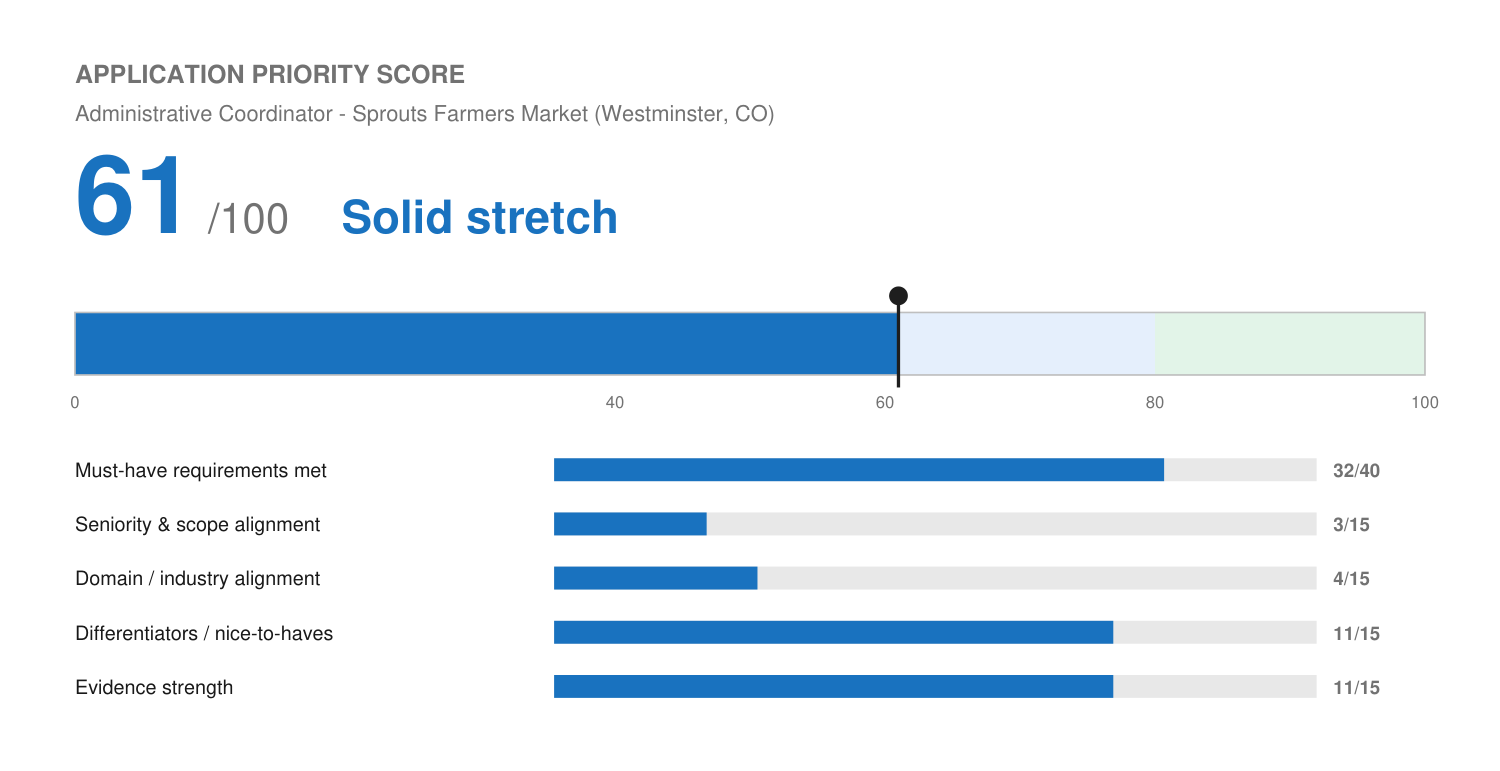
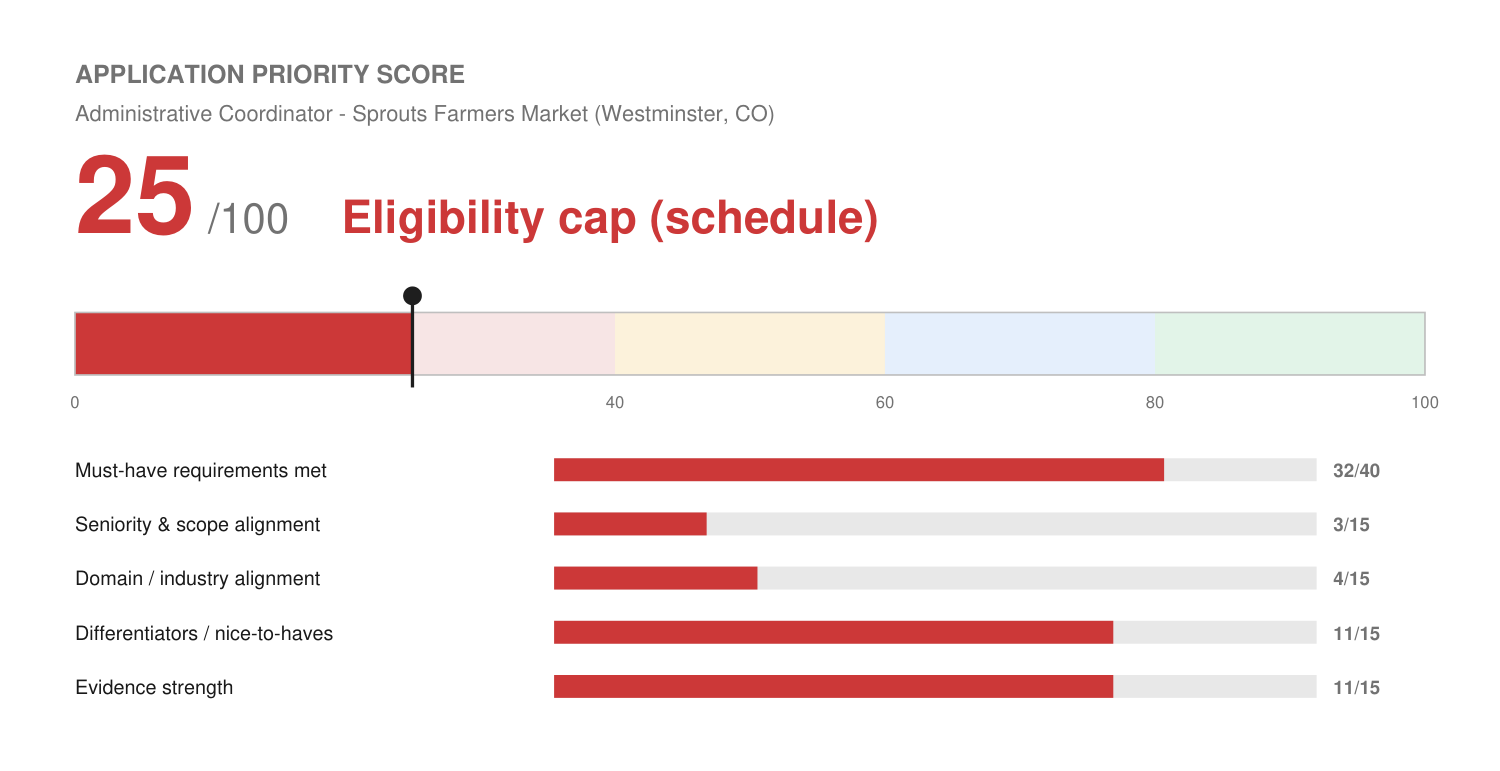
Sprouts: correct schedule constraint, mark application not pursuing
Josh confirmed nights and weekends don't work for him, correcting a wrong
Aug 2026 profile note that said they were acceptable. Sprouts' schedule
requirement is a hard, structural condition of the role, not a preference,
so this is a real eligibility failure, not a score problem.

- master-profile.md: corrected the standing constraint and folded it into
  the knockouts block so it's checked against every future posting.
- Sprouts match report: failed eligibility item flagged at top, cap applied
  (61 -> 25), status marked not pursuing.
- Interview prep doc: flagged not pursuing, kept as record.

Claude-Session: https://claude.ai/code/session_018PWNMGW6sMNQBQW8r9m5br

diff --git a/applications/sprouts-farmers-market/match-report.md b/applications/sprouts-farmers-market/match-report.md
@@ -5,18 +5,28 @@
 **Req:** 376084
 **Date:** 2026-09-14
 
+> ## ⛔ STATUS: NOT PURSUING — schedule eligibility failure (confirmed by Josh, Sep 2026)
+> Josh confirmed nights and weekends do not work for him. This posting's schedule
+> requirement ("flexible schedule incl. nights/weekends/holidays") is a core, structural
+> condition of an hourly store-floor role, not a soft preference item, so this is a real
+> hard blocker, not a long-shot score. The earlier "evenings/weekends/holidays acceptable"
+> note this eligibility check relied on (Aug 2026, re: DCPA) was wrong/overstated and has
+> been corrected in `master-profile.md`. Eligibility cap applies (see Step 5 of the
+> `/tailor-resume` skill). **Josh's call: drop this application.** Built resume/prep files
+> below are kept as a record, not an active application in progress.
+
 ---
 
 ## Application-Form and Eligibility Check
 
 | Item | Classification | Notes |
 | :--- | :--- | :--- |
+| **Flexible schedule incl. nights/weekends/holidays** | **FAILS — hard blocker** | Confirmed by Josh, Sep 2026: nights and weekends do not work. Corrects the earlier (wrong) Aug 2026 "acceptable" note in `master-profile.md`. This is a core, non-negotiable scheduling condition of the role, not a preference item. |
 | Age 18+ | Application-form | No issue — Josh is well above 18. |
 | Work authorization (I-9) | Application-form | No issue — U.S. citizen (confirmed by Josh). |
 | Work location (Westminster, CO, onsite) | Application-form | No issue — within Denver metro, no relocation needed. |
 | HS diploma or equivalent | Resume-evidenced | Exceeded — B.A., Colorado State University. |
 | 1–2 yrs retail store accounting/admin/HR (preferred, not required) | Candidate confirmation needed / adjacent | No grocery-store-specific or bookkeeping experience on file. Real admin, hiring, onboarding, reporting, and (per below) cash-handling experience exists, but not in a grocery/general-retail setting. |
-| Flexible schedule incl. nights/weekends/holidays | Resume-evidenced | Profile confirms this is acceptable (confirmed Aug 2026). |
 | Outlook, Excel, Word proficiency | **Resume-evidenced** | Confirmed by Josh, Sep 2026 — real, defensible hands-on experience with all three, beyond the Google Apps already on file. Added to `master-profile.md` and this resume. |
 | Bookkeeping/accounting software knowledge | **Gap** | Nothing in the profile evidences bookkeeping or accounting-software experience. |
 | HR/payroll software knowledge (HRIS, timekeeping systems) | **Gap** | Profile shows CRM systems (Salesforce, HubSpot, GoHighLevel), not HRIS/payroll platforms. |
@@ -24,29 +34,36 @@
 | Physical requirements (lift 30 lbs, sit for extended periods, etc.) | Application-form | Self-certification at application/onboarding, not a resume claim. |
 | PPE compliance | Application-form | Onboarding requirement, not a resume claim. |
 
-No hard eligibility failure found — no license, work-authorization, or location blocker. Eligibility cap does not apply.
+**Hard eligibility failure found: schedule requirement.** Eligibility cap applies — total capped at 25 regardless of the strength shown elsewhere below.
 
 ---
 
 ## Application Priority Score
 
 ```
-🔵 Application Priority Score: 61 / 100 — Solid stretch
-[████████████░░░░░░░░]  61%
+🔴 Application Priority Score: 25 / 100 — Eligibility cap (schedule)
+[█████░░░░░░░░░░░░░░░]  25%
 ```
 *Internal decision aid — not a prediction of Sprouts' own screening outcome.*
 
-*Updated Sep 2026 after Josh confirmed two open items below: personal, regular cash-handling experience at Standing Akimbo, and hands-on Microsoft Office (Outlook/Excel/Word) proficiency. Both were previously scored as unevidenced.*
+*Recomputed Sep 2026: Josh confirmed nights and weekends don't work, a hard blocker
+against this role's core schedule requirement, which caps the score regardless of the
+genuine strength shown below (cash handling and MS Office are both now confirmed and
+would otherwise have moved this to 61/100, Solid stretch). The underlying dimension
+scores are kept below for the record, but the cap governs the decision.*
 
 | Dimension | Score | Max | Why |
 | :--- | :--- | :--- | :--- |
-| Must-have requirements met | 32 | 40 | Every explicit hard requirement (age, education, physical capability, schedule flexibility) is met or exceeded. The "preferred" retail accounting/admin/HR experience still isn't grocery-specific, but real adjacent admin/onboarding/HR/cash-handling experience exists. |
-| Seniority & scope alignment | 3 | 15 | Severe downward mismatch: 15+ years as a SaaS Account Executive, team lead, and founder, applying to an hourly, entry-to-mid retail admin role. Unaffected by the new confirmations. |
+| Must-have requirements met | 32 | 40 | Every non-schedule hard requirement (age, education, physical capability) is met or exceeded; schedule now fails, see cap above. |
+| Seniority & scope alignment | 3 | 15 | Severe downward mismatch: 15+ years as a SaaS Account Executive, team lead, and founder, applying to an hourly, entry-to-mid retail admin role. |
 | Domain / industry alignment | 4 | 15 | Still no grocery/retail-store experience. Confirmed cash-handling adds real retail-adjacent operations evidence (Standing Akimbo), but it's a dispensary, not a grocery store. |
 | Differentiators / nice-to-haves | 11 | 15 | Genuine strengths: hands-on hiring/onboarding/training (including a corroborated manager reference), team leadership up to 20 people, dashboard/reporting discipline, structured records management, now rounded out by confirmed MS Office fluency. |
 | Evidence strength | 11 | 15 | Strong, quantified evidence for onboarding/training/reporting, now joined by real, direct cash-handling evidence. Safe balancing, bank-deposit reconciliation specifics, payroll transmission, and HRIS/timekeeping systems remain unevidenced. |
 
-**Band: Solid stretch (60–79)** — apply with a sharp tailored resume. The scope and domain mismatch is still real (this remains a downward move from Josh's SaaS career), but the core-function evidence gap that made this a long shot is now substantially closed.
+**Band: Eligibility cap applied — do not pursue.** The uncapped dimension total is 61
+(Solid stretch), which is genuinely how strong Josh's evidence is for the role's content.
+The cap exists specifically for this situation: strong evidence doesn't matter when a
+confirmed, structural scheduling requirement can't be met.
 
 ---
 
@@ -80,6 +97,7 @@ No hard eligibility failure found — no license, work-authorization, or locatio
 
 ## Gaps
 
+- **Hard blocker: nights and weekends don't work for Josh**, and this role's schedule is built around them. Not a content gap, a real eligibility failure. See status banner at top.
 - No formal safe-balancing procedure, refund-report process, WIC/food-stamp/coupon reconciliation, or payroll-transmission/timekeeping-system experience anywhere in the profile.
 - No bookkeeping/accounting software or HRIS/payroll-system experience documented.
 - No grocery or general retail-store industry experience — Standing Akimbo is retail-adjacent (dispensary), not grocery.

diff --git a/profile/master-profile.md b/profile/master-profile.md
@@ -38,8 +38,13 @@
 > Yelp in local business marketing/reputation (Birdeye, Fivestars) — represent this as
 > competitive familiarity, never as Yelp Ads platform experience.
 >
-> **Non-standard schedules:** evenings, weekends, and holidays are acceptable for the right
-> role (confirmed Aug 2026 re: DCPA).
+> **Non-standard schedules — corrected (Sep 2026):** nights and weekends do NOT work for
+> Josh. The earlier "evenings, weekends, and holidays are acceptable for the right role"
+> note (Aug 2026, re: DCPA) was wrong/overstated and is superseded by this correction —
+> do not cite or revive it. Treat any posting whose core schedule requires regular
+> nights and/or weekends (most retail, hospitality, and venue-floor roles) as a hard
+> knockout, the same tier as the language and location knockouts above. Holiday
+> availability specifically is unconfirmed either way, don't assume it from this note.
 >
 > **Colorado MED Agent Badge (confirmed by Josh, Sep 2026):** does not currently hold a
 > Colorado Marijuana Enforcement Division occupational license ("Agent Badge"). This is

diff --git a/applications/sprouts-farmers-market/sprouts-farmers-market-interview-prep.md b/applications/sprouts-farmers-market/sprouts-farmers-market-interview-prep.md
@@ -1,6 +1,12 @@
 # Sprouts Farmers Market Interview Prep — Administrative Coordinator
 
-**Store:** Westminster, CO (#0301) · **Req:** 376084 · **Score:** 61/100, Solid stretch
+**Store:** Westminster, CO (#0301) · **Req:** 376084 · **Score:** 25/100, eligibility cap
+
+> ## ⛔ NOT PURSUING (confirmed by Josh, Sep 2026)
+> Josh confirmed nights and weekends don't work for him, and this role's schedule
+> requires both as a core condition, not a preference. See `match-report.md` for the
+> full eligibility writeup. Kept below as a record and in case a genuinely different,
+> weekday-only version of a similar role surfaces later — not an active application.
 
 ---
 
